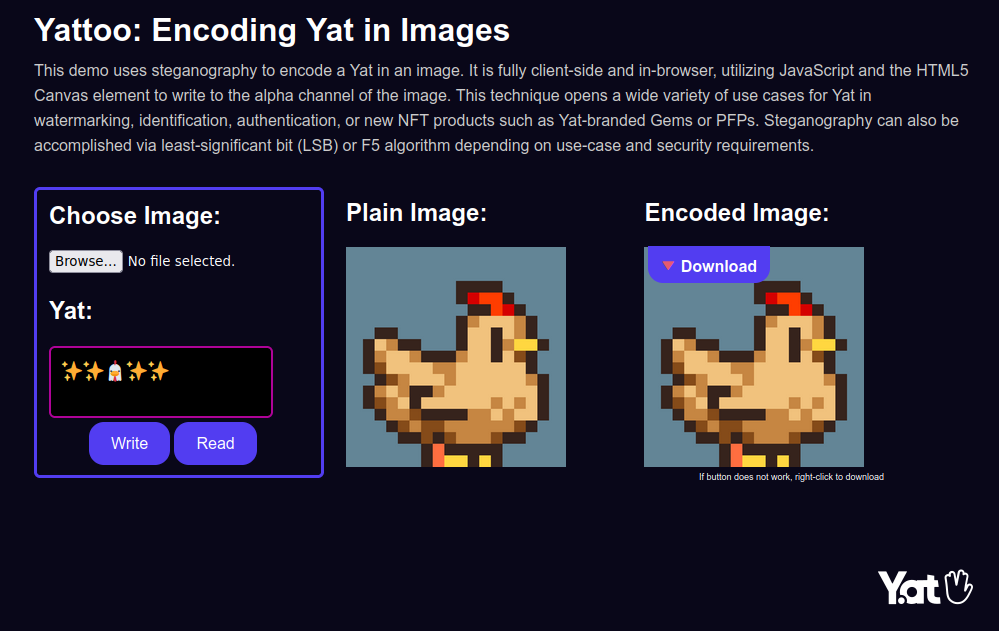
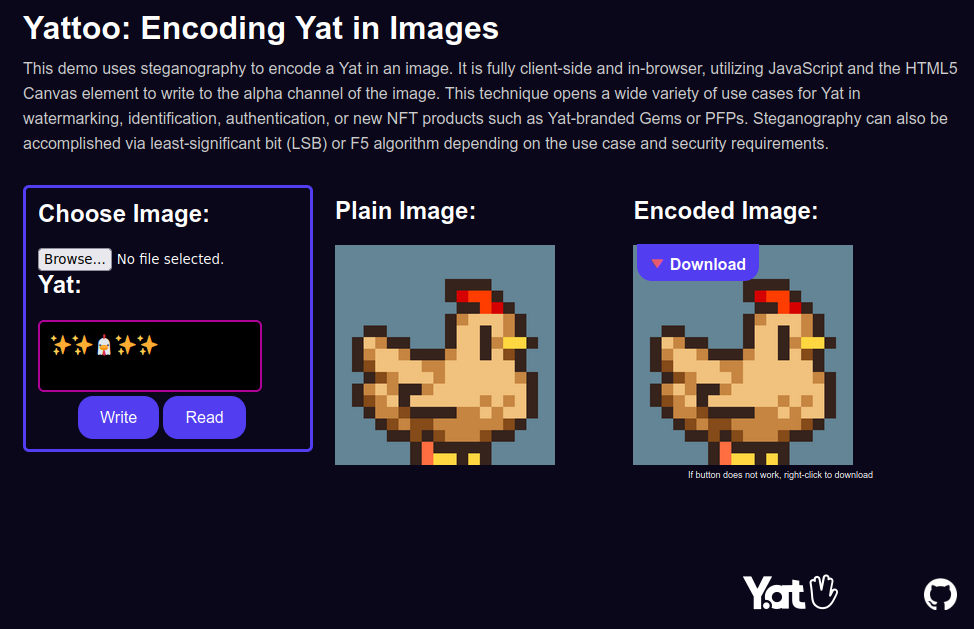
Updated screenshot

diff --git a/index.html b/index.html
@@ -151,7 +151,7 @@
 	<div id="main">
 		<h1>Yattoo: Encoding Yat in Images</h1>
 		<div id="description">
-			This demo uses steganography to encode a Yat in an image. It is fully client-side and in-browser, utilizing JavaScript and the HTML5 Canvas element to write to the alpha channel of the image. This technique opens a wide variety of use cases for Yat in watermarking, identification, authentication, or new NFT products such as Yat-branded Gems or PFPs. Steganography can also be accomplished via least-significant bit (LSB) or F5 algorithm depending on use-case and security requirements.
+			This demo uses steganography to encode a Yat in an image. It is fully client-side and in-browser, utilizing JavaScript and the HTML5 Canvas element to write to the alpha channel of the image. This technique opens a wide variety of use cases for Yat in watermarking, identification, authentication, or new NFT products such as Yat-branded Gems or PFPs. Steganography can also be accomplished via least-significant bit (LSB) or F5 algorithm depending on the use case and security requirements.
 		</div>
 		<div id="left">
 			<h2>Choose Image:</h2><input id="file" type="file"><br>

diff --git a/README.md b/README.md
@@ -2,9 +2,9 @@
 
 Embed a Yat into an image using steganography techniques
 
-<img src="img/screenshot.png" width="600" />
+<img src="img/screenshot.png" width="660" />
 
-This demo uses steganography to encode a [Yat](https://y.at) in an image. It is fully client-side and in-browser, utilizing JavaScript and the HTML5 Canvas element to write to the alpha channel of the image. This technique opens a wide variety of use cases for Yat in watermarking, identification, authentication, or new NFT products such as Yat-branded Gems or PFPs. Steganography can also be accomplished via least-significant bit (LSB) or F5 algorithm depending on use-case and security requirements.
+This demo uses steganography to encode a [Yat](https://y.at) in an image. It is fully client-side and in-browser, utilizing JavaScript and the HTML5 Canvas element to write to the alpha channel of the image. This technique opens a wide variety of use cases for Yat in watermarking, identification, authentication, or new NFT products such as Yat-branded Gems or PFPs.
 
 ### What is steganography?
 
@@ -35,13 +35,13 @@ Potential use cases are:
 * Identifying clones, remixes, and counterfeit NFTs
 * Conveying authorship and licensing terms
 
-All of these use cases require development beyond this simple demo, which uses the simple [steganography.js](https://github.com/petereigenschink/steganography.js/) library. Additional hashing and cryptography techniques would be needed for use cases that require strong confidentiality and verification of identity.
+All of these use cases require development beyond this simple demo, which uses the [steganography.js](https://github.com/petereigenschink/steganography.js/) library. Additional hashing and cryptography techniques would be needed for use cases that require strong confidentiality and verification of identity.
 
 ### Additional methods
 
-Steganography can also be accomplished via least-significant bit (LSB) or F5 algorithm depending on use-case and security requirements. For JavaScript implementations, see [this LSB example](https://github.com/thavixt/steganography-js) and [this F5 example](https://github.com/desudesutalk/f5stegojs).
+Steganography can also be accomplished via least-significant bit (LSB) or F5 algorithm depending on the use case and security requirements. For JavaScript implementations, see [this LSB example](https://github.com/thavixt/steganography-js) and [this F5 example](https://github.com/desudesutalk/f5stegojs).
 
-### In the Wild
+### In the wild
 [CjS77](https://github.com/CjS77) describes an [excellent example](https://github.com/tari-labs/yat-steganography/issues/1) of steganography usage within an [NFT collection](https://opensea.io/collection/seven-5iwat2ntvf). As this example proves, steganography can be used not only for an artist's signature but also to identify clones, remixes, or counterfeit NFTs.
 
 ## Licensing
